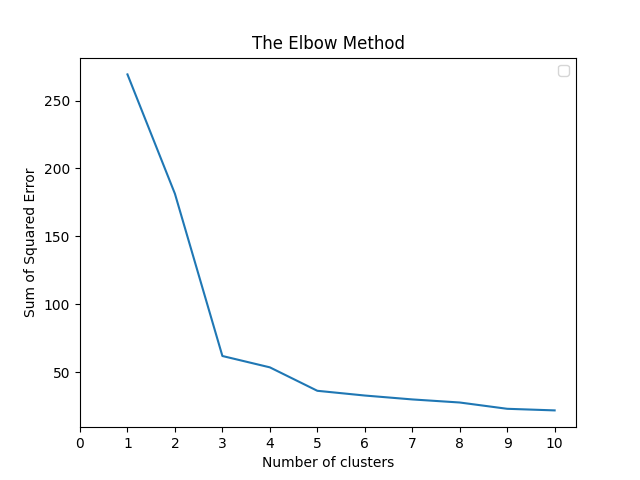
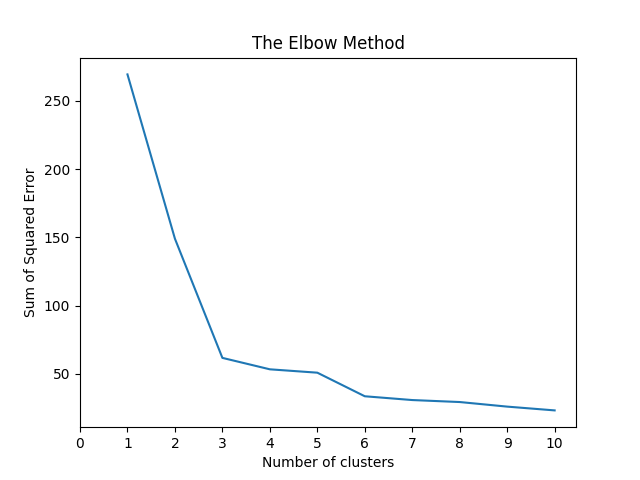
cleaned task3 code

diff --git a/task3/task3_2.py b/task3/task3_2.py
@@ -7,8 +7,7 @@ from sklearn.cluster import KMeans
 
 def task3_2():
     # Data Preparation
-    # file_path = "/course/filtered_vehicle.csv"
-    file_path = "./a1-datasets/filtered_vehicle.csv"
+    file_path = "/course/filtered_vehicle.csv"
     filtered_vehicles_df = pd.read_csv(file_path)
     cols = ["VEHICLE_YEAR_MANUF", "VEHICLE_BODY_STYLE", "VEHICLE_MAKE", 'NO_OF_WHEELS', 'NO_OF_CYLINDERS', 'SEATING_CAPACITY', 'TARE_WEIGHT', 'TOTAL_NO_OCCUPANTS']
     filtered_vehicles_df = filtered_vehicles_df[cols]
@@ -21,8 +20,9 @@ def task3_2():
     # The Elbow Method
     k_ranges = range(1, 11) # for k from 1 to 10
     sse = []
+    rand_state = 20008
     for k in k_ranges:
-        kmeans = KMeans(n_clusters=k)
+        kmeans = KMeans(n_clusters=k, random_state=rand_state)
         kmeans.fit(normalised_df)
         sse.append(kmeans.inertia_)
     
@@ -33,9 +33,6 @@ def task3_2():
     plt.ylabel('Sum of Squared Error')
     plt.title('The Elbow Method')
 
-    plt.legend()
     plt.savefig('task3_2_elbow.png')
 
     return
-
-task3_2()

diff --git a/task3/task3_3.py b/task3/task3_3.py
@@ -5,8 +5,7 @@ from sklearn.cluster import KMeans
 
 def task3_3():
     # Data Preparation
-    #file_path = "/course/filtered_vehicle.csv"
-    file_path = "./a1-datasets/filtered_vehicle.csv"
+    file_path = "/course/filtered_vehicle.csv"
     filtered_vehicles_df = pd.read_csv(file_path)
     cols = ['ACCIDENT_NO', "VEHICLE_YEAR_MANUF", "VEHICLE_BODY_STYLE", "VEHICLE_MAKE", 'NO_OF_WHEELS', 'NO_OF_CYLINDERS', 'SEATING_CAPACITY', 'TARE_WEIGHT', 'TOTAL_NO_OCCUPANTS']
     filtered_vehicles_df = filtered_vehicles_df[cols]
@@ -43,7 +42,6 @@ def task3_3():
     plt.ylabel('Number of crashes')
     plt.title('Number of crashes for each unique manufacturer-body style-year combination')
 
-    plt.legend()
     plt.savefig('task3_3_scattercolour.png')
 
     # Produce .csv files
@@ -59,4 +57,3 @@ def write_to_csv(df, cluster_num):
     filename = 'task3_3_cluster{k}.csv'.format(k=cluster_num)
     cluster_df.head(10).to_csv(filename, index=False)
 
-task3_3()

diff --git a/task3/task3_1.py b/task3/task3_1.py
@@ -3,8 +3,7 @@ import matplotlib.pyplot as plt
 
 def task3_1():
     # Data Grouping
-    # file_path = "/course/filtered_vehicle.csv"
-    file_path = "./a1-datasets/filtered_vehicle.csv"
+    file_path = "/course/filtered_vehicle.csv"
     filtered_vehicles_df = pd.read_csv(file_path)
     filtered_vehicles_df = filtered_vehicles_df[["ACCIDENT_NO", "VEHICLE_YEAR_MANUF", "VEHICLE_BODY_STYLE", "VEHICLE_MAKE"]]
 
@@ -19,8 +18,8 @@ def task3_1():
     plt.ylabel('Number of crashes')
     plt.title('Number of crashes for each unique manufacturer-body style-year combination')
 
-    plt.legend()
-    plt.savefig('task3_1_scatter.png')
+    plt.show()
+    #plt.savefig('task3_1_scatter.png')
 
     return
 
